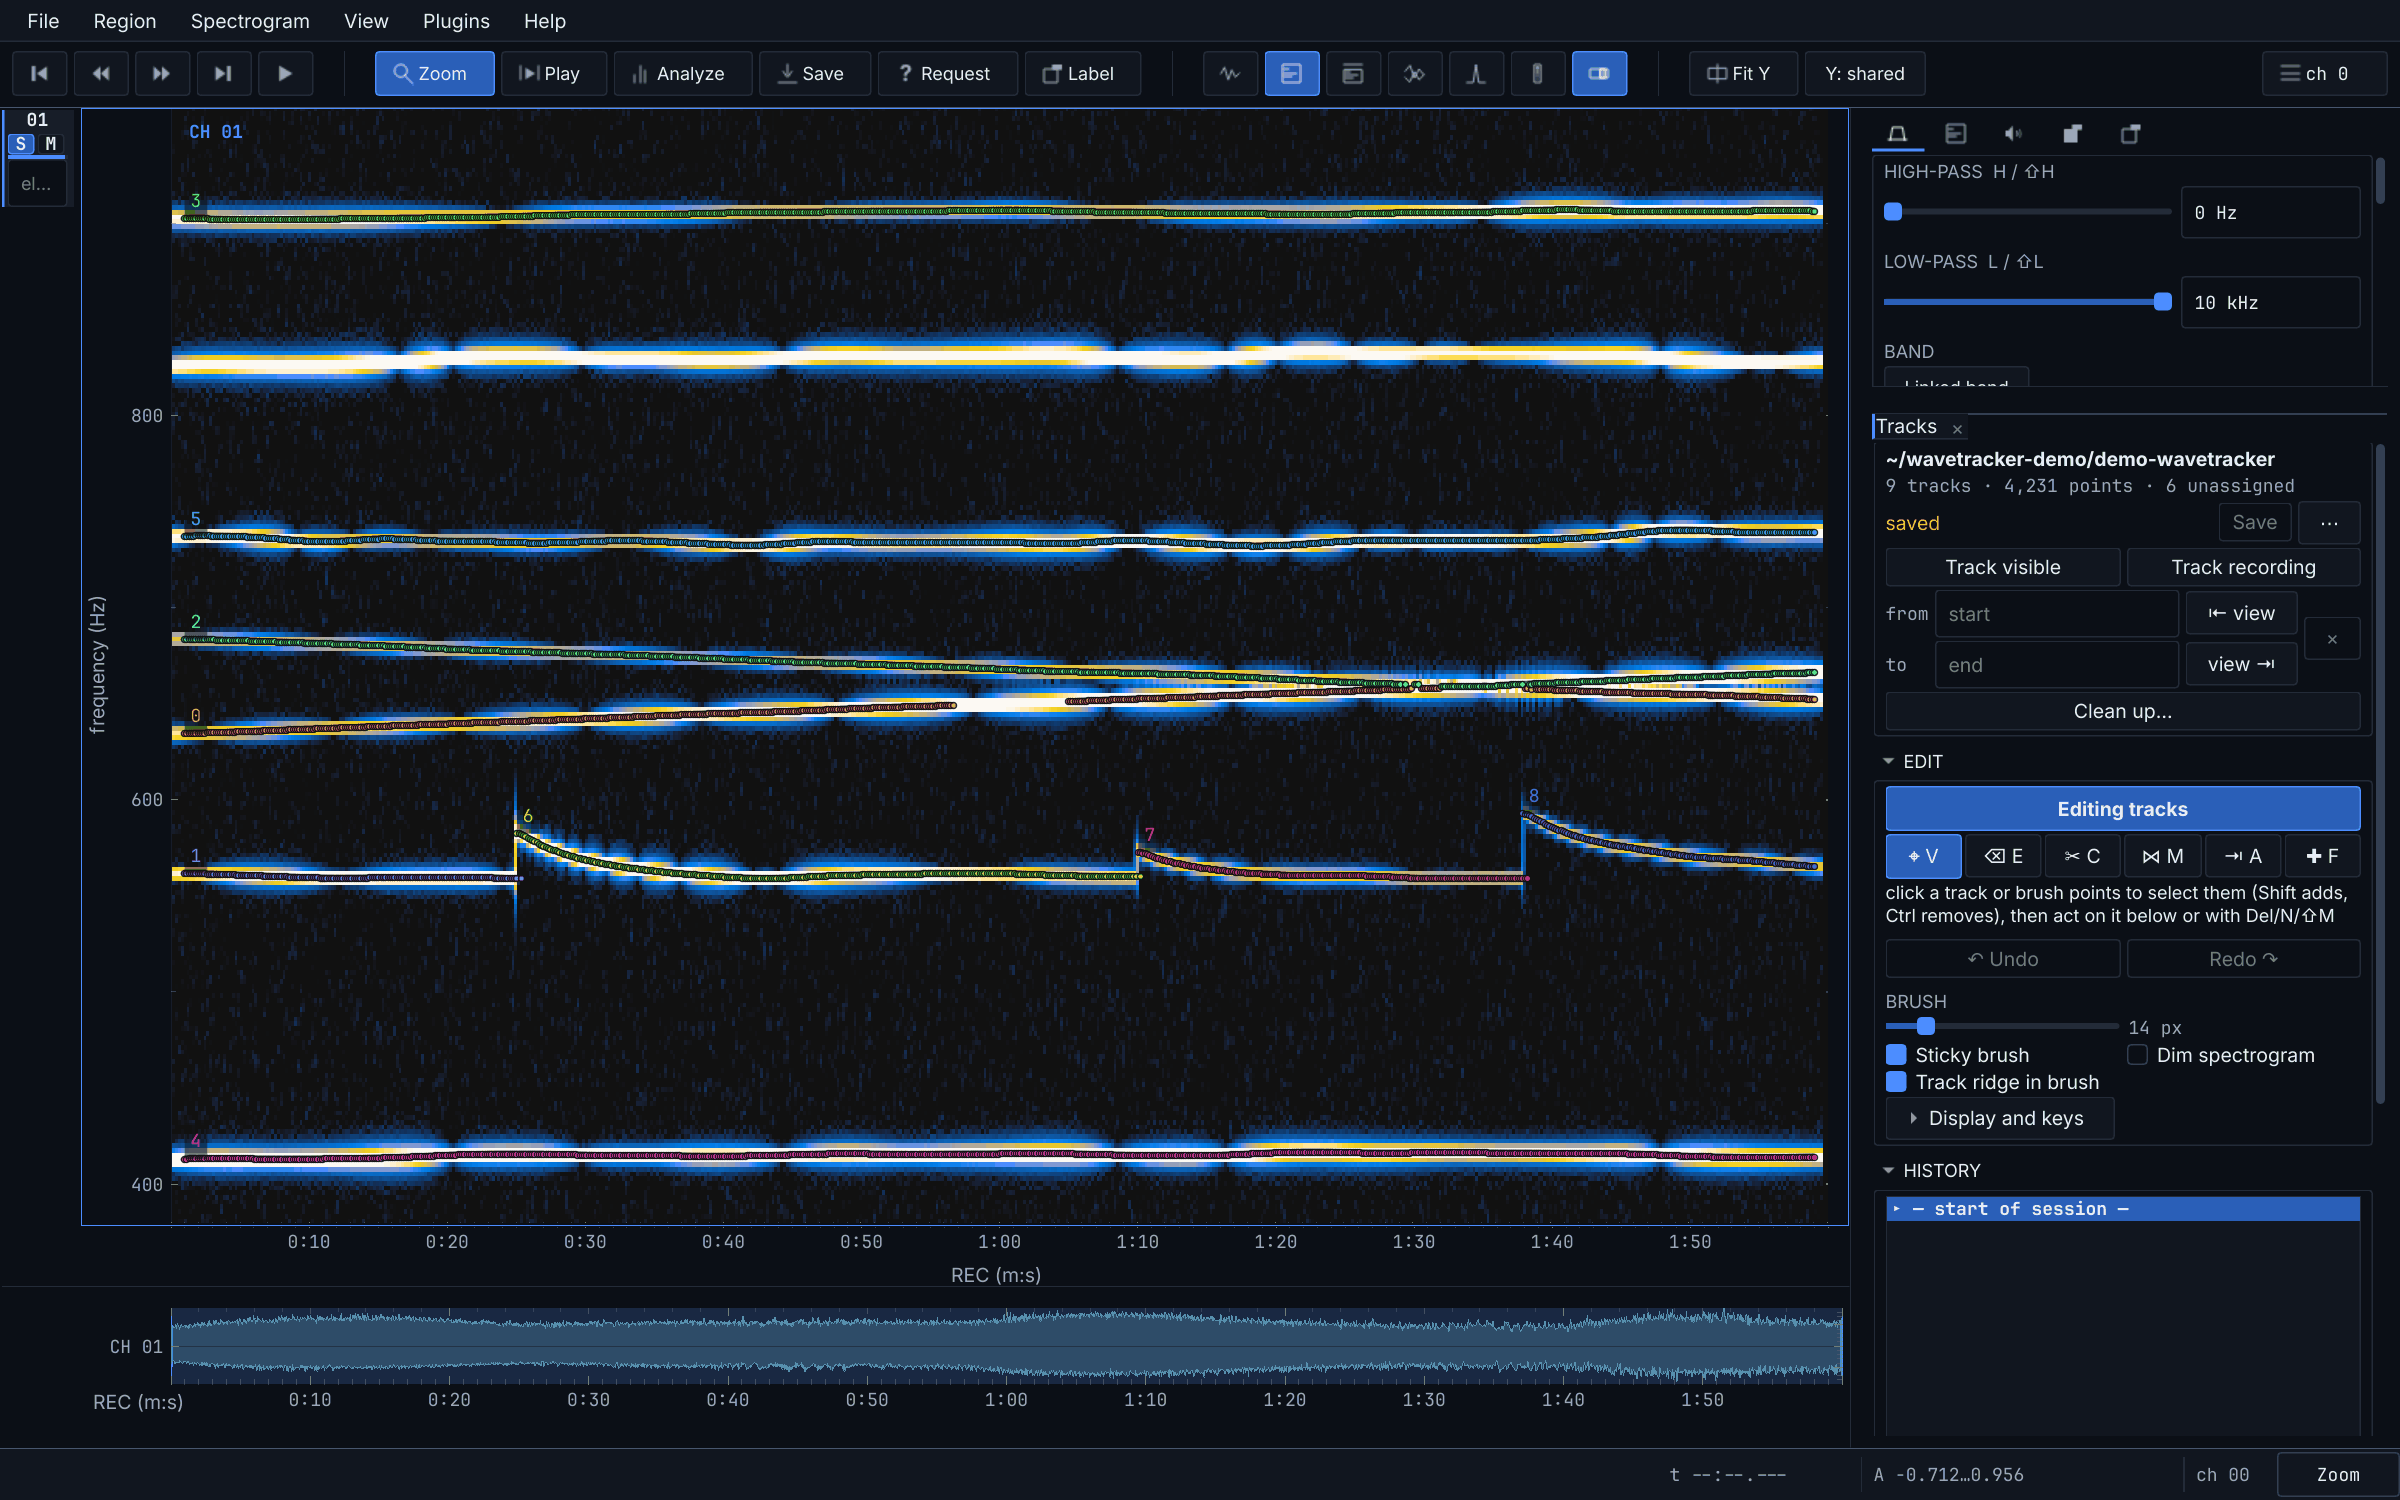
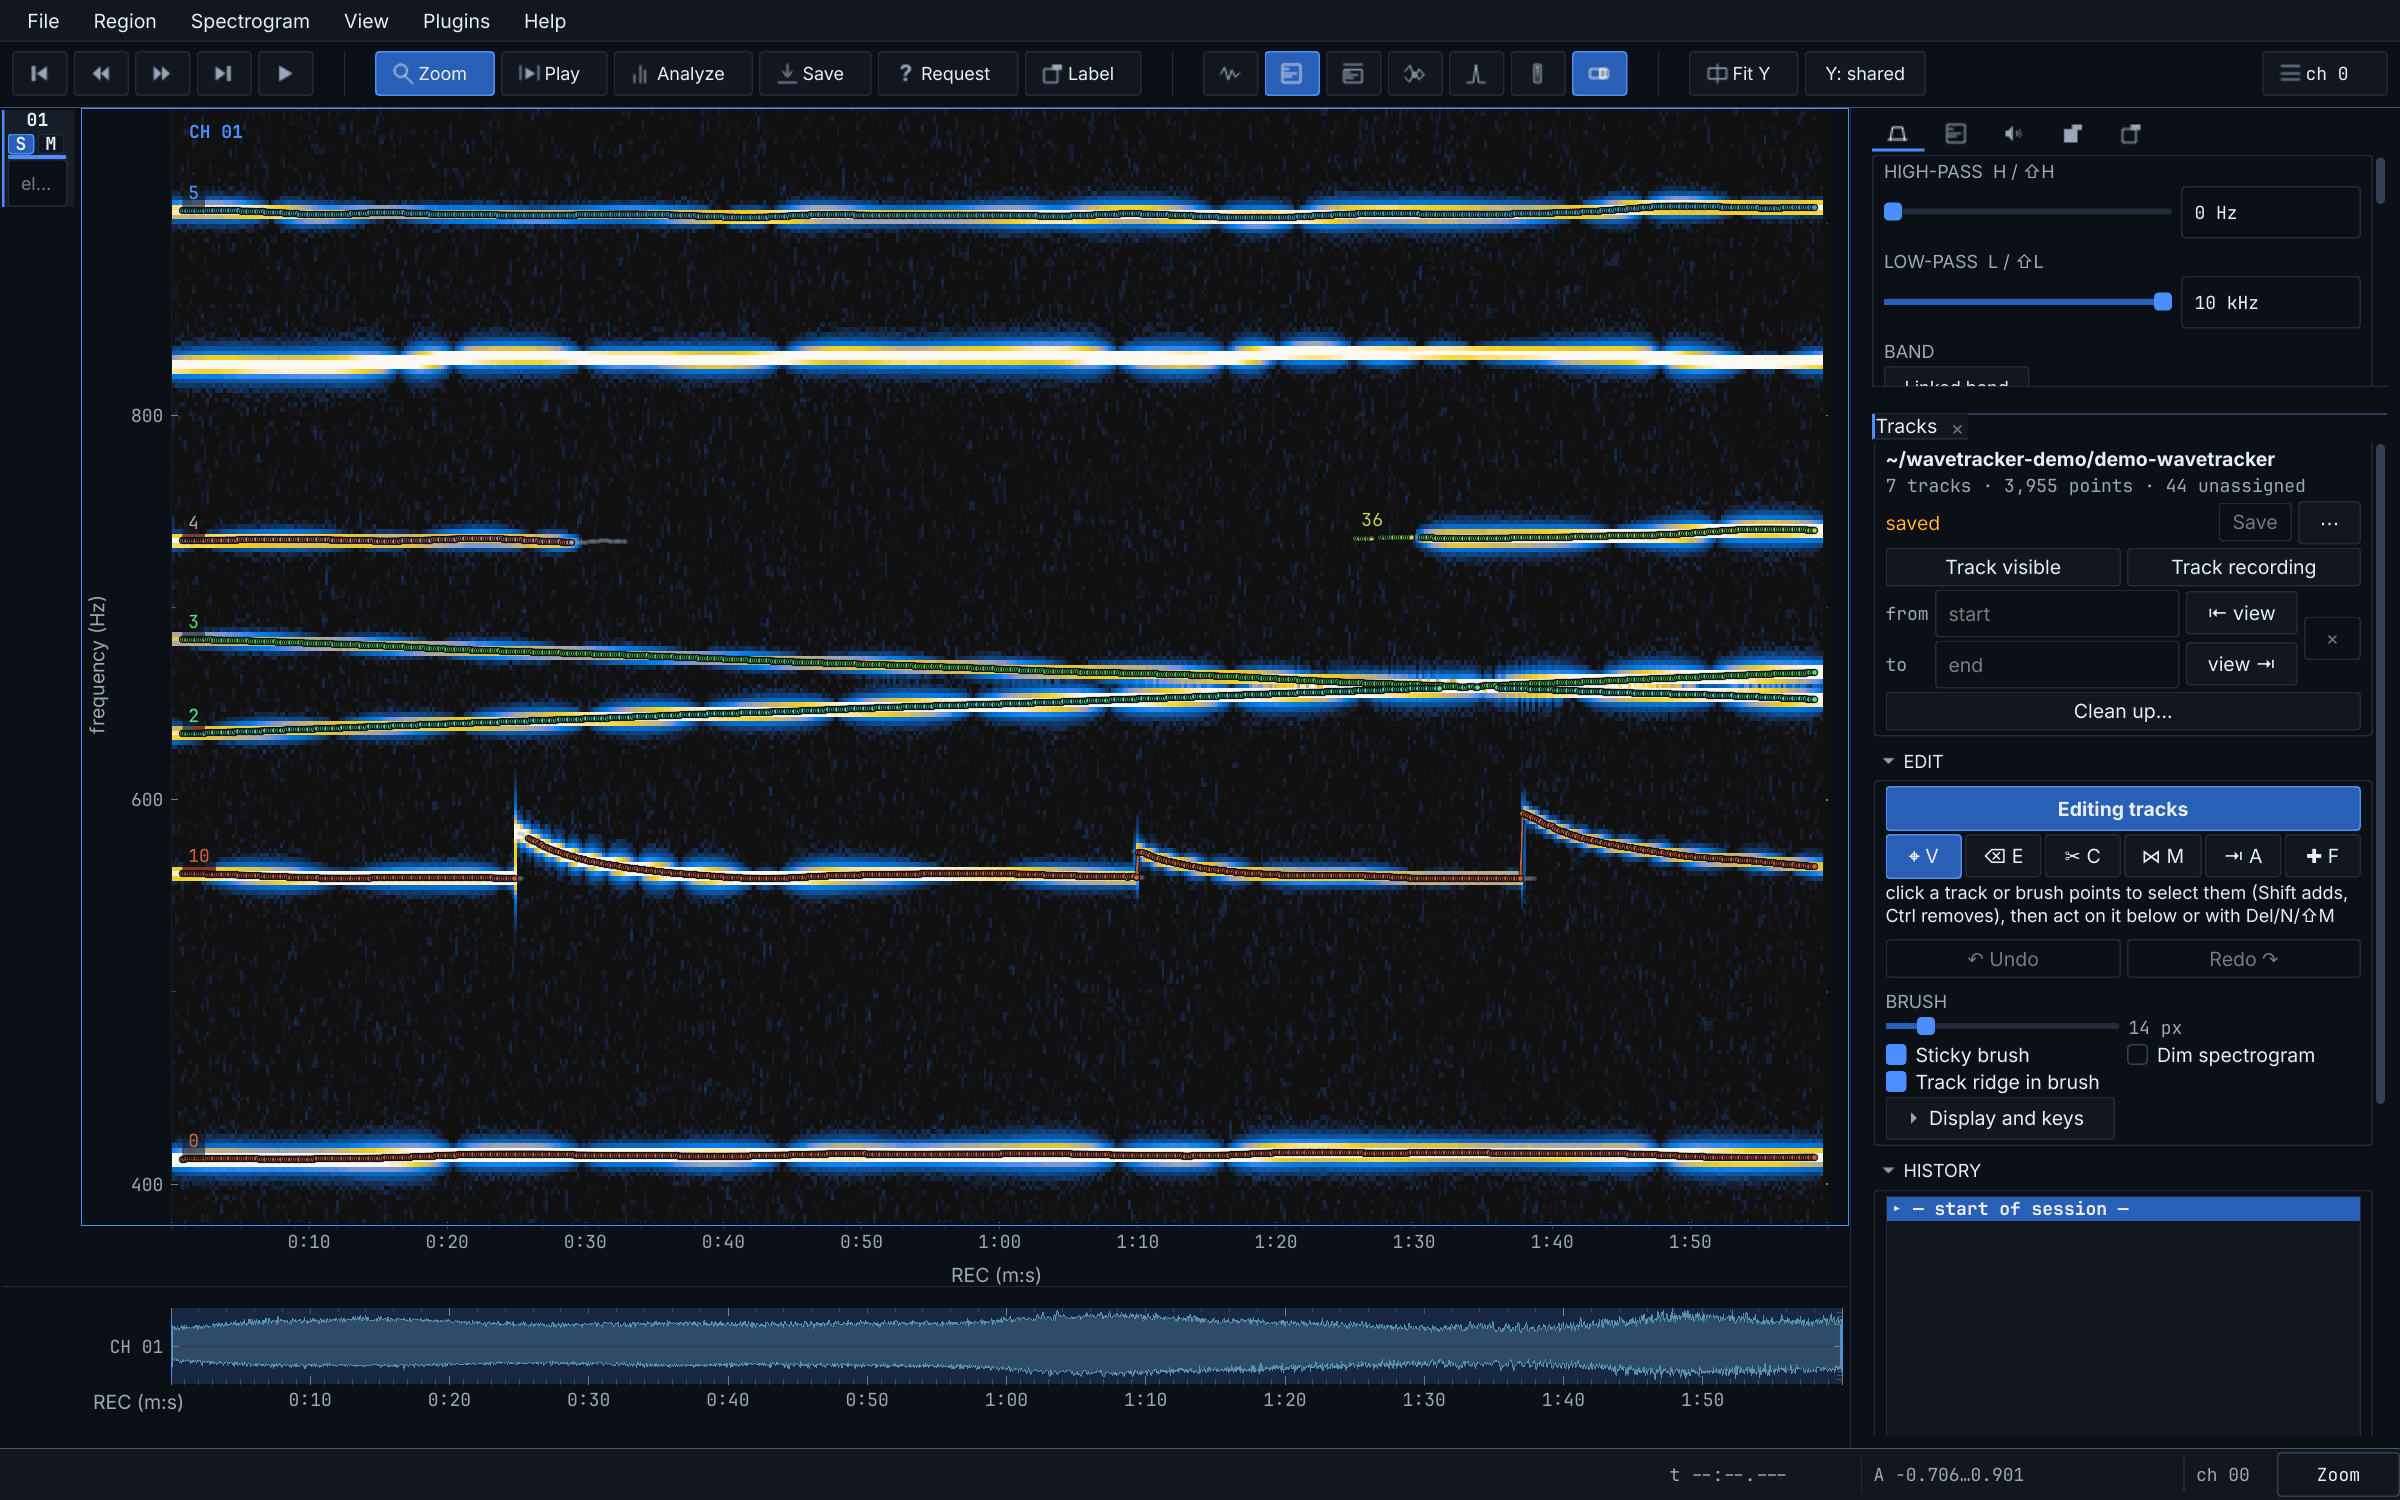
README: the audian screenshot and its caption for the default pipeline
The screenshot comes from claudian's scripts/wavetracker_shots.py
(docs/shots/wavetracker-overview.png) on its new demo: six fish tracked by
the learned pipeline, the rising fish in one track, the fish that swam
away for a minute in two. The paragraph above it no longer says rises
split a fish (the default pipeline joins them) and names the G walk over
review.json.

diff --git a/README.md b/README.md
@@ -164,11 +164,13 @@ traces and `wavetracker.evaluation.evaluate` scores results against them
 
 ## Correcting tracks interactively
 
-No tracker is right everywhere: rises split a fish into fragments, crossing
-fish swap identities, harmonics get tracked as fish. The fix is to look and
-correct, in [audian](https://github.com/weygoldt/audian), a recording viewer
-whose wavetracker plugin runs the pipeline and edits its output on the
-spectrogram.
+No tracker is right everywhere: a fish that leaves and comes back can end up
+in two tracks, crossing fish swap identities, harmonics get tracked as fish.
+The fix is to look and correct, in [audian](https://github.com/weygoldt/audian),
+a recording viewer whose wavetracker plugin runs the pipeline and edits its
+output on the spectrogram. Its <kbd>G</kbd> key visits the places
+`review.json` is least sure of first, and <kbd>Enter</kbd> applies the
+suggested fix.
 
 ![audian with the wavetracker plugin](docs/images/audian-wavetracker.png)
 
